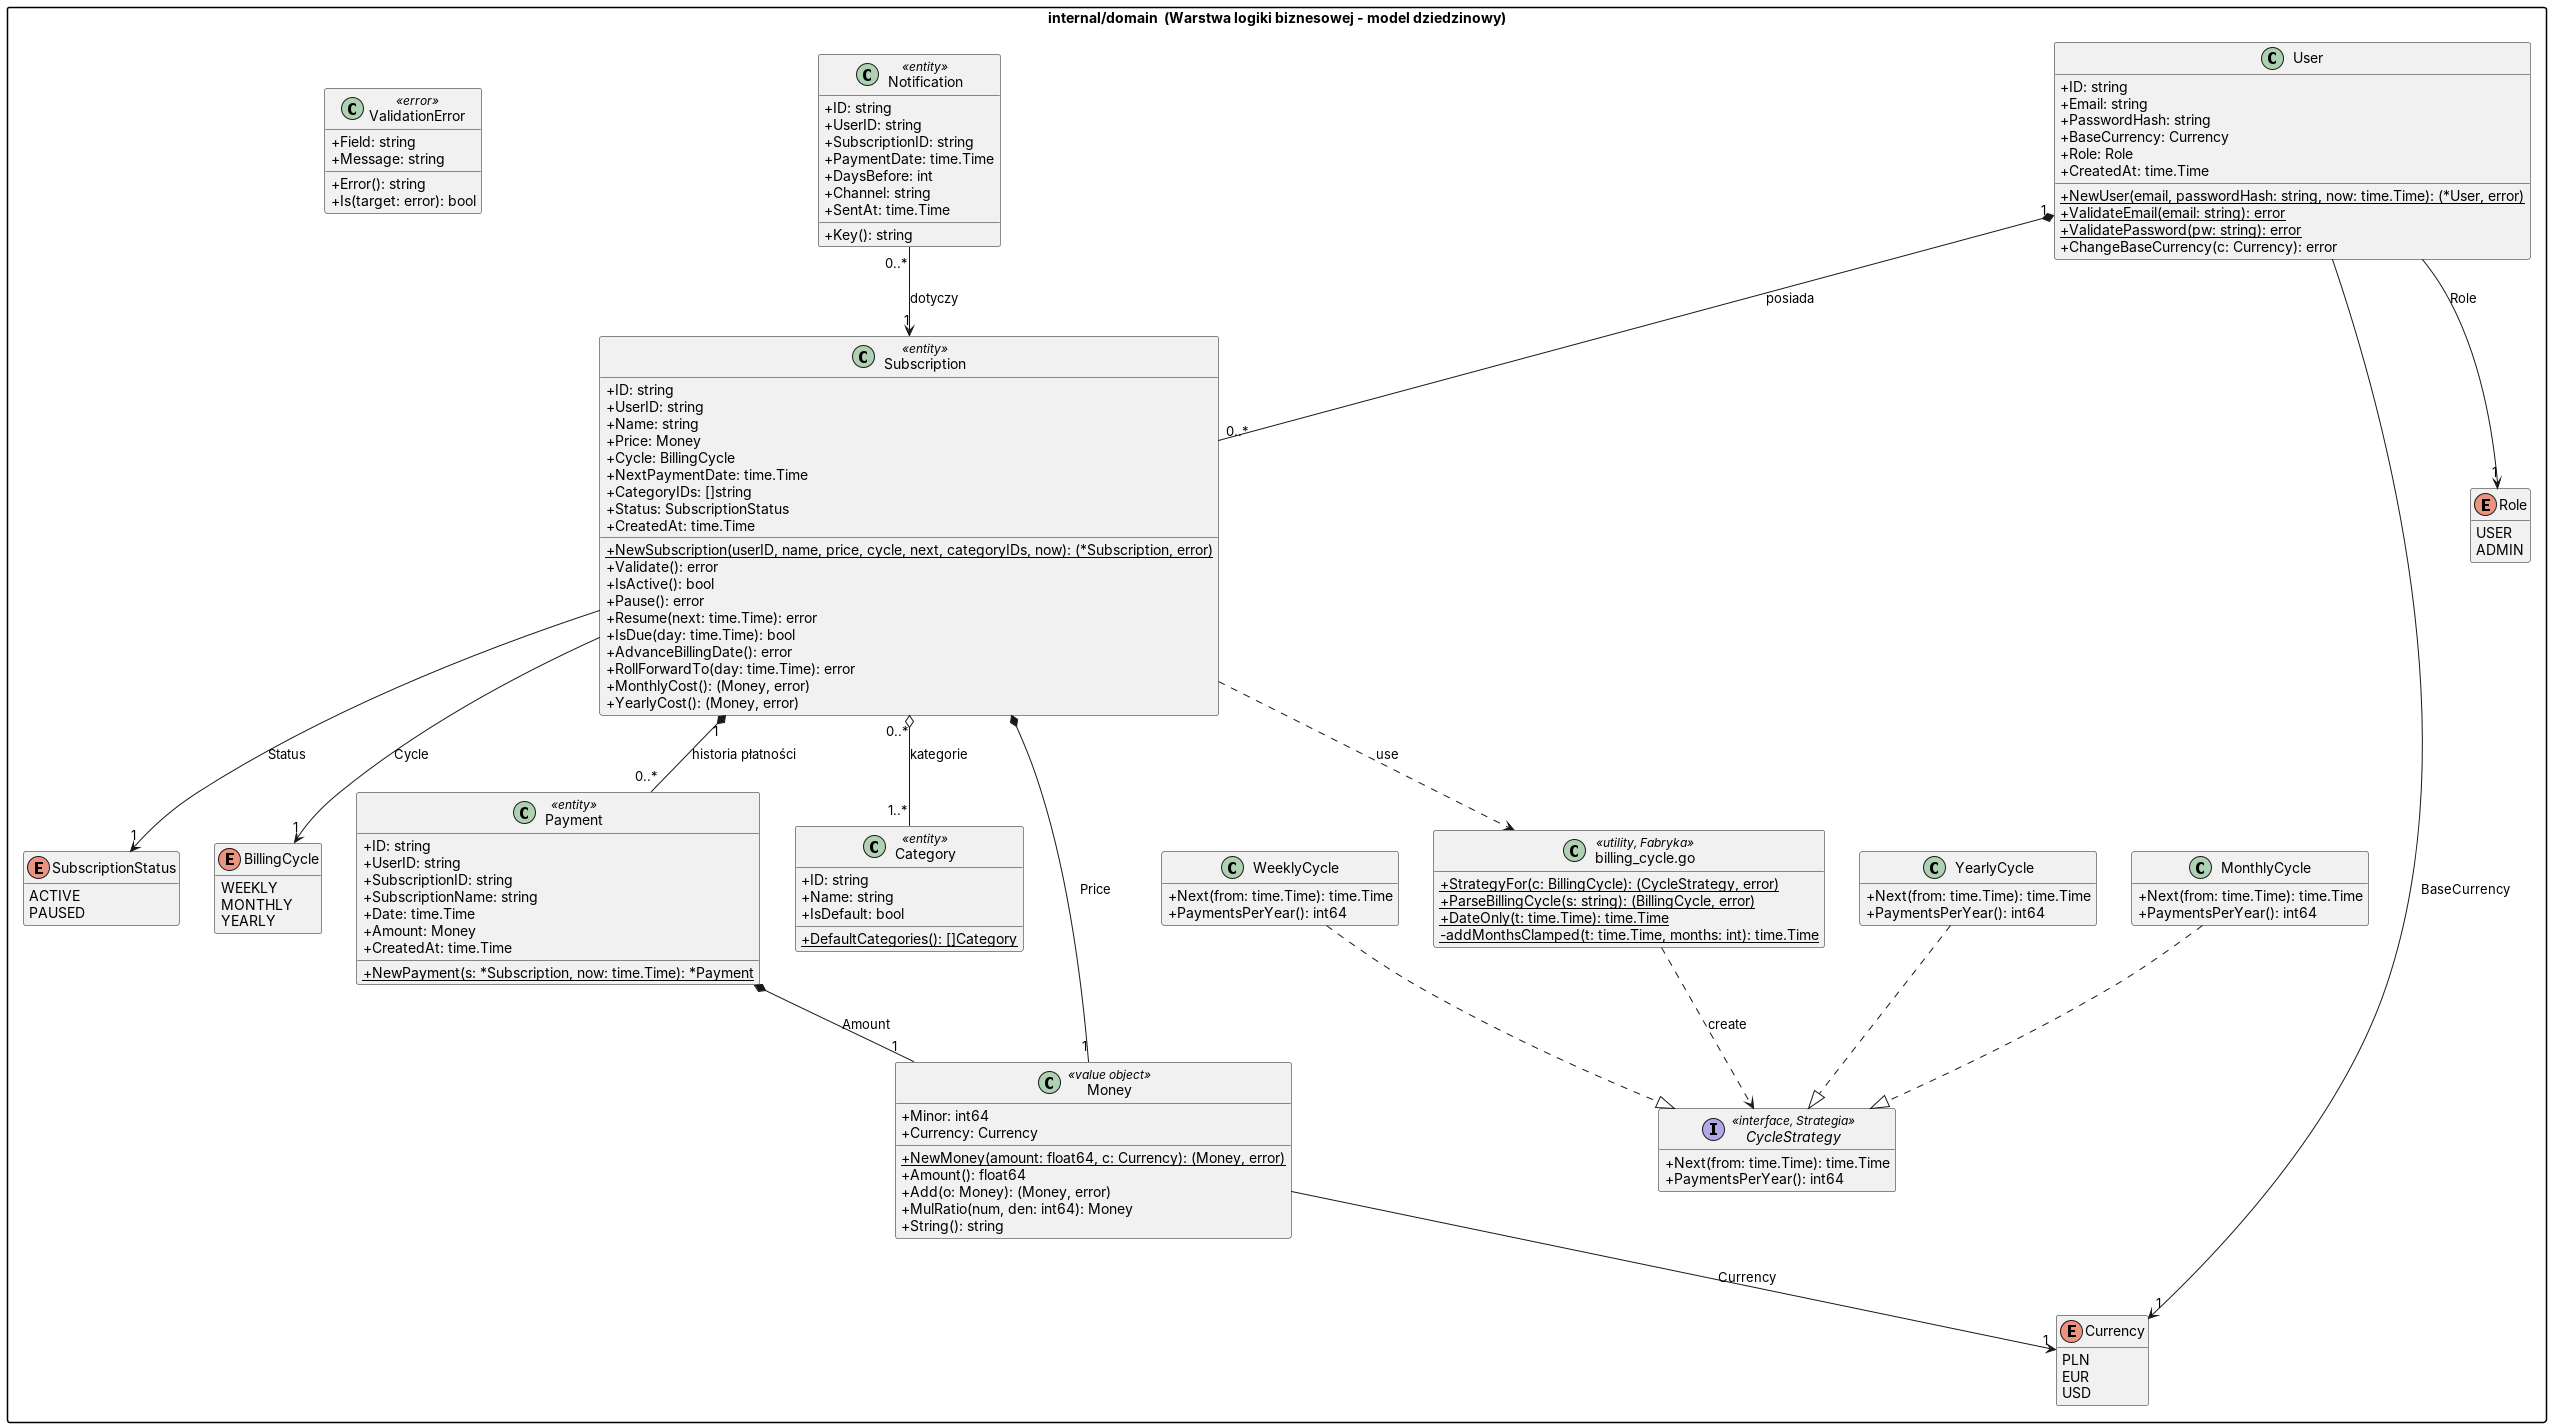
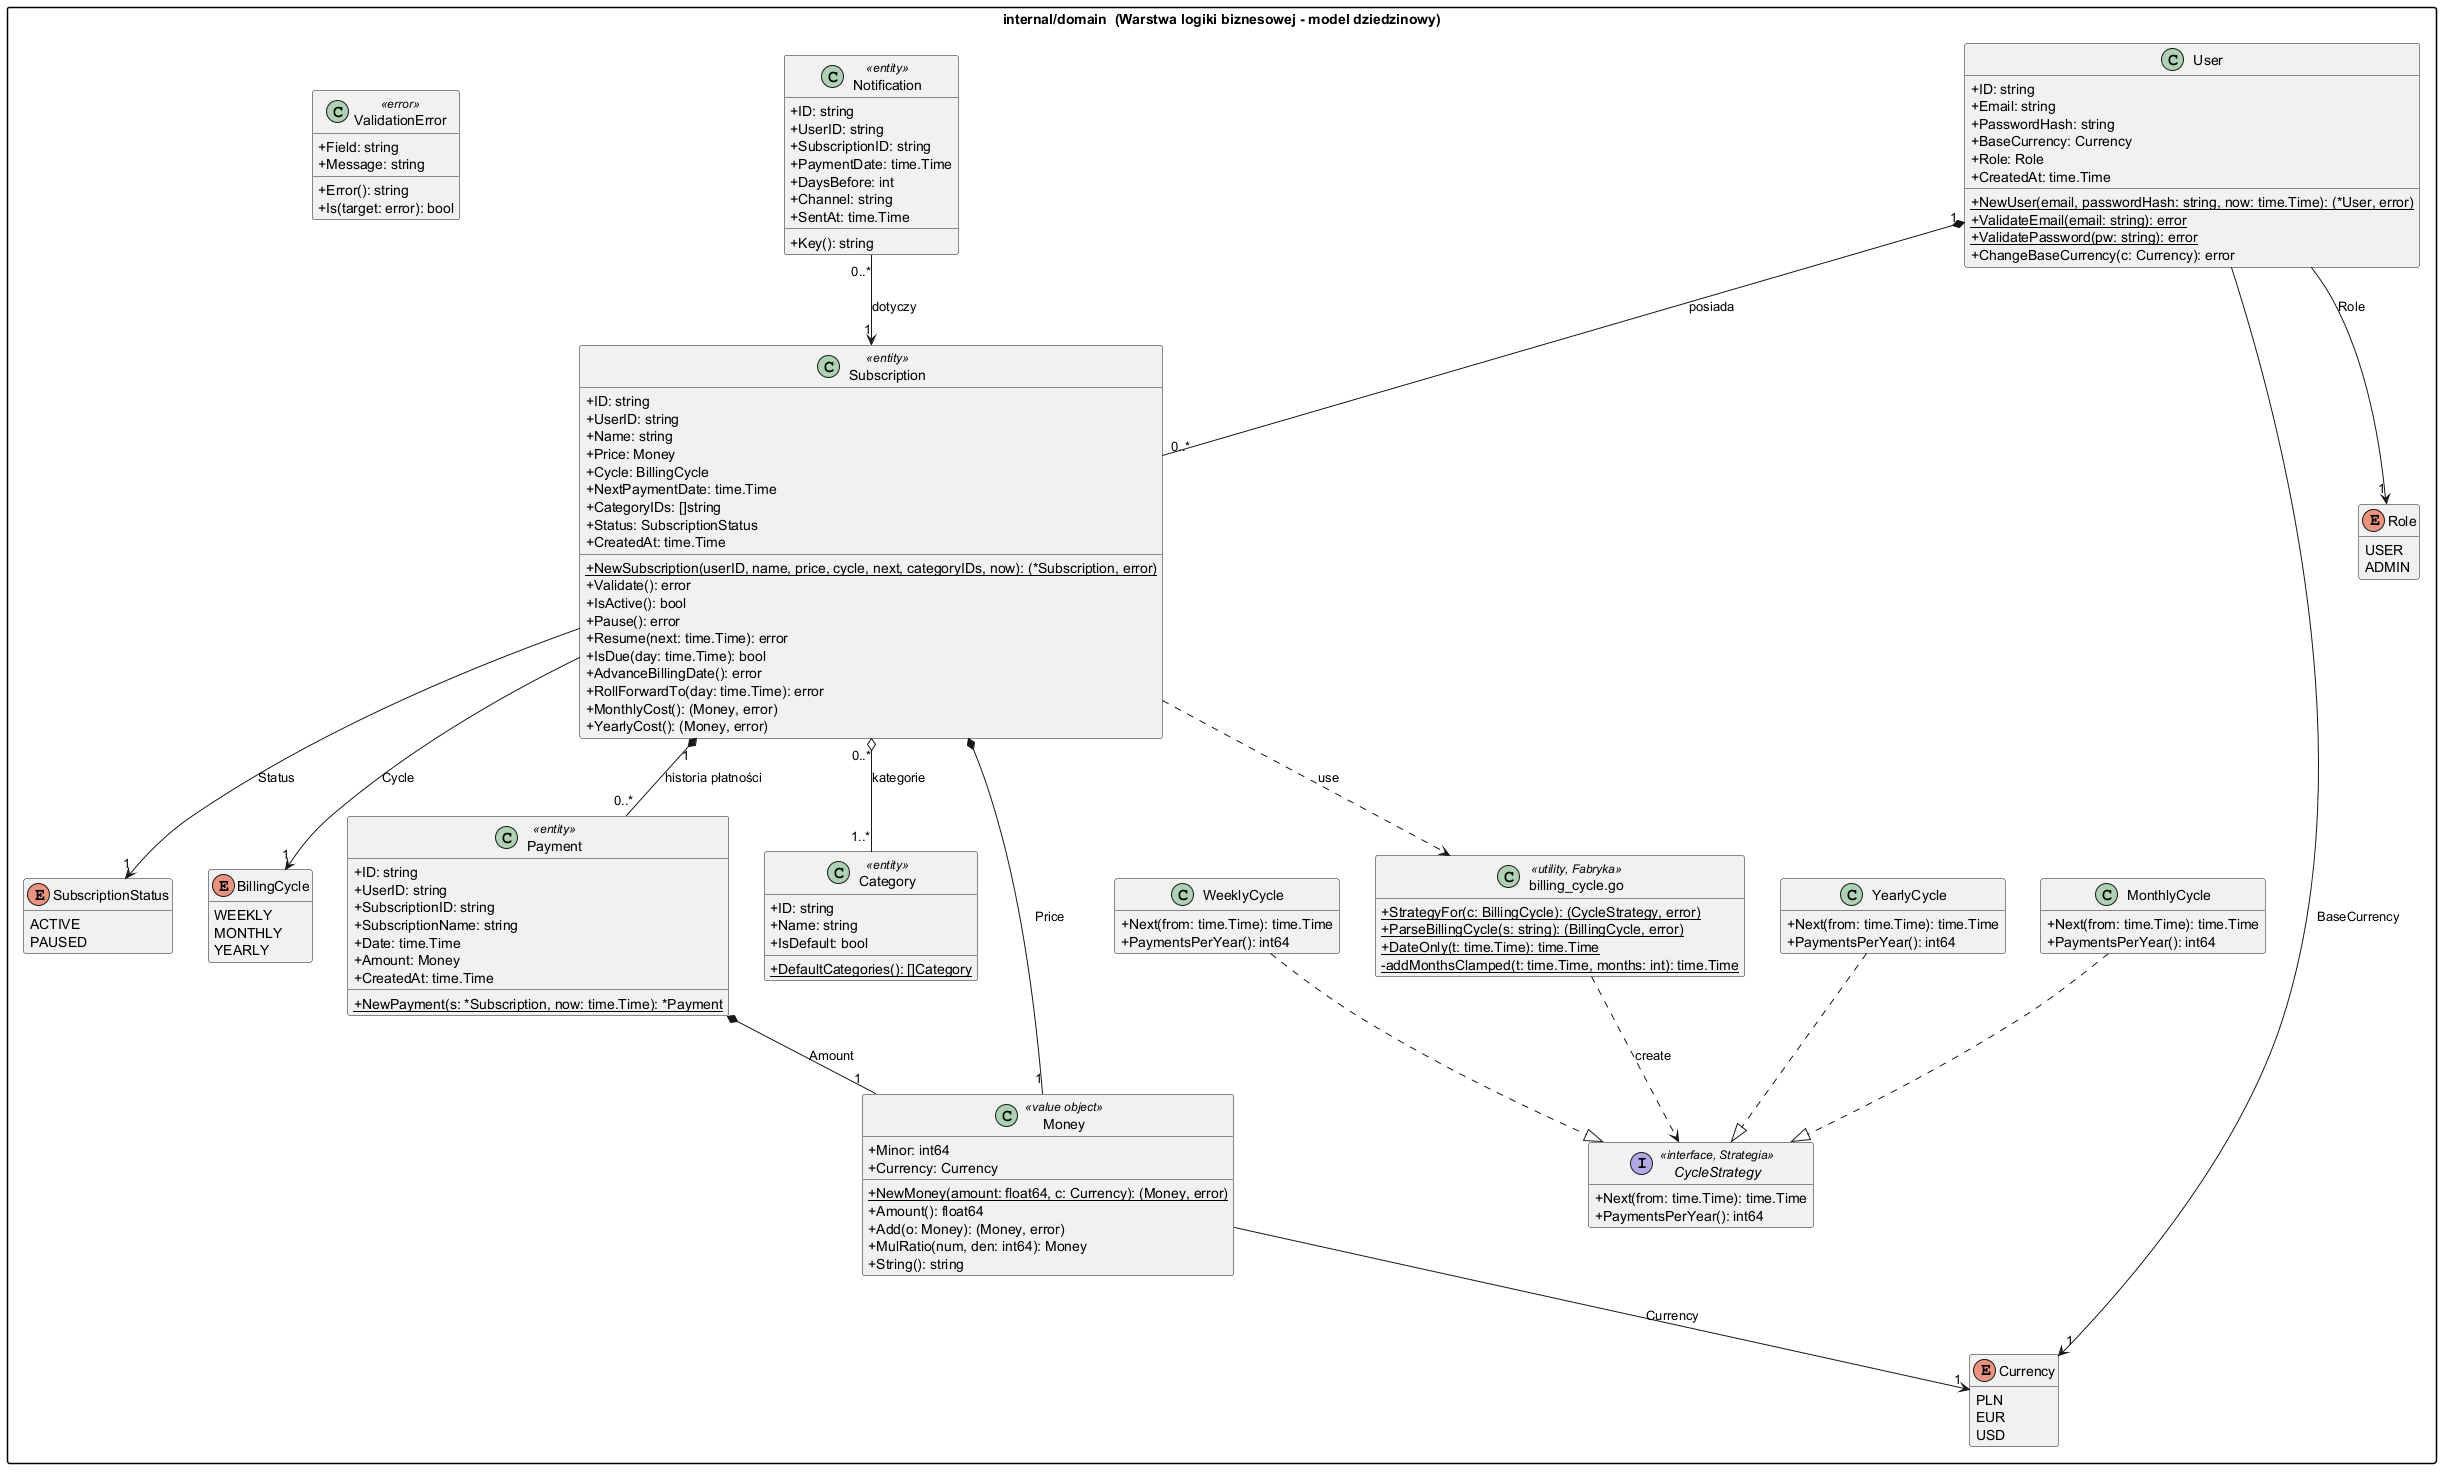
Diagramy: architektura, warstwa logiki i danych
- Dodano `01_architektura.dot`, `03_warstwa_logiki.puml`, `04_warstwa_danych.puml`
- Wprowadzono małe poprawki w komentarzach, readme, LF -> CRLF
- Usunięto endpoint testowy `/api/ping`

Closes #11

diff --git a/frontend/src/api/httpClient.ts b/frontend/src/api/httpClient.ts
@@ -1,4 +1,4 @@
-// HttpClient – jedyne miejsce, w którym frontend komunikuje się z backendem
+// HttpClient – jedyne miejsce, w którym frontend komunikuje się z backendem
 // (fetch + nagłówek Authorization + jednolita obsługa błędów).
 
 export class ApiError extends Error {

diff --git a/frontend/src/api/services.ts b/frontend/src/api/services.ts
@@ -1,4 +1,4 @@
-// Klienci zasobów REST API – odpowiadają kontrolerom (handlerom) backendu.
+// Klienci zasobów REST API – odpowiadają kontrolerom (handlerom) backendu.
 import type { HttpClient } from './httpClient'
 import type { Currency, LoginResponse, User } from '../types'
 

diff --git a/frontend/src/types.ts b/frontend/src/types.ts
@@ -1,4 +1,4 @@
-// Typy DTO – odpowiadają strukturom z backend/internal/api/dto.go.
+// Typy DTO – odpowiadają strukturom z backend/internal/api/dto.go.
 
 export type Currency = 'PLN' | 'EUR' | 'USD'
 export type BillingCycle = 'WEEKLY' | 'MONTHLY' | 'YEARLY'

diff --git a/frontend/vite.config.ts b/frontend/vite.config.ts
@@ -1,4 +1,4 @@
-import { defineConfig } from 'vite'
+import { defineConfig } from 'vite'
 import react from '@vitejs/plugin-react'
 
 // Serwer deweloperski Vite (port 5173) przekazuje żądania /api do backendu Go.

diff --git a/backend/internal/currency/rates.go b/backend/internal/currency/rates.go
@@ -1,6 +1,4 @@
-// Package currency – dostęp do kursów walut: symulator zewnętrznego API
-// oraz pośrednik buforujący (cache).
-package currency
+package currency
 
 import (
 	"context"
@@ -13,14 +11,14 @@ import (
 	"github.com/ahevko/polsl-aei-io-katowice/backend/internal/domain"
 )
 
-// RateTable – tabela kursów: ile PLN kosztuje 1 jednostka danej waluty.
+// Tabela kursów: ile PLN kosztuje 1 jednostka danej waluty.
 type RateTable struct {
 	Rates     map[domain.Currency]float64 `json:"rates"`
 	FetchedAt time.Time                   `json:"fetchedAt"`
 	Source    string                      `json:"source"`
 }
 
-// PLNPer zwraca kurs waluty względem PLN.
+// Zwraca kurs waluty względem PLN.
 func (t RateTable) PLNPer(c domain.Currency) (float64, error) {
 	r, ok := t.Rates[c]
 	if !ok || r <= 0 {
@@ -29,13 +27,12 @@ func (t RateTable) PLNPer(c domain.Currency) (float64, error) {
 	return r, nil
 }
 
-// RateProvider – kontrakt dostawcy kursów walut.
+// Kontrakt dostawcy kursów walut.
 type RateProvider interface {
 	CurrentRates(ctx context.Context) (RateTable, error)
 }
 
-// ExchangeAPISimulator – SYMULATOR zewnętrznego API kursów walut
-// (zgodnie z WSS: „ustalone kursy referencyjne dla celów symulacyjnych”).
+// SYMULATOR zewnętrznego API kursów walut.
 // Symuluje opóźnienie sieci i zlicza wywołania, aby było widać działanie cache.
 type ExchangeAPISimulator struct {
 	reference map[domain.Currency]float64
@@ -43,7 +40,7 @@ type ExchangeAPISimulator struct {
 	calls     atomic.Int64
 }
 
-// NewExchangeAPISimulator tworzy symulator z kursami referencyjnymi.
+// Tworzy symulator z kursami referencyjnymi.
 func NewExchangeAPISimulator(latency time.Duration) *ExchangeAPISimulator {
 	return &ExchangeAPISimulator{
 		reference: map[domain.Currency]float64{domain.PLN: 1.0, domain.EUR: 4.25, domain.USD: 3.70},
@@ -66,12 +63,12 @@ func (s *ExchangeAPISimulator) CurrentRates(ctx context.Context) (RateTable, err
 	return RateTable{Rates: rates, FetchedAt: time.Now(), Source: "symulator-api"}, nil
 }
 
-// Calls – liczba wywołań „zewnętrznego” API (do demonstracji i testów).
+// Liczba wywołań "zewnętrznego" API (do demonstracji i testów).
 func (s *ExchangeAPISimulator) Calls() int64 { return s.calls.Load() }
 
-// CachedRateProvider – wzorzec PEŁNOMOCNIK (Proxy) / DEKORATOR:
+// Wzorzec PEŁNOMOCNIK (Proxy) / DEKORATOR:
 // ten sam interfejs co RateProvider, ale wynik jest buforowany przez ttl,
-// co ogranicza liczbę zapytań do zewnętrznego API (WSS: buforowanie).
+// co ogranicza liczbę zapytań do zewnętrznego API.
 type CachedRateProvider struct {
 	inner   RateProvider
 	ttl     time.Duration
@@ -81,7 +78,7 @@ type CachedRateProvider struct {
 	expires time.Time
 }
 
-// NewCachedRateProvider opakowuje dowolnego dostawcę kursów.
+// Opakowuje dowolnego dostawcę kursów.
 func NewCachedRateProvider(inner RateProvider, ttl time.Duration) *CachedRateProvider {
 	return &CachedRateProvider{inner: inner, ttl: ttl, now: time.Now}
 }
@@ -104,7 +101,7 @@ func (p *CachedRateProvider) CurrentRates(ctx context.Context) (RateTable, error
 	return t, nil
 }
 
-// Invalidate czyści bufor (np. po aktualizacji kursów przez administratora).
+// Czyści bufor (np. po aktualizacji kursów przez administratora).
 func (p *CachedRateProvider) Invalidate() {
 	p.mu.Lock()
 	p.cached = nil

diff --git a/backend/internal/service/analytics_service.go b/backend/internal/service/analytics_service.go
@@ -1,4 +1,4 @@
-package service
+package service
 
 import (
 	"context"
@@ -8,14 +8,14 @@ import (
 	"github.com/ahevko/polsl-aei-io-katowice/backend/internal/repository"
 )
 
-// CategoryCost – koszt miesięczny przypadający na kategorię.
+// Koszt miesięczny przypadający na kategorię.
 type CategoryCost struct {
 	CategoryID   string
 	CategoryName string
 	Monthly      domain.Money
 }
 
-// CostSummary – wynik UC „Przeglądaj podsumowanie kosztów”.
+// Podsumowanie kosztów subskrypcji użytkownika.
 type CostSummary struct {
 	BaseCurrency        domain.Currency
 	MonthlyTotal        domain.Money
@@ -25,7 +25,8 @@ type CostSummary struct {
 	ByCategory          []CategoryCost
 }
 
-// AnalyticsService – UC z diagramu „Analiza wydatków” (WF-03).
+// Serwis warstwy logiki dla analizy kosztów subskrypcji użytkownika. Współpracuje z repozytoriami
+// subskrypcji, użytkowników i kategorii oraz konwerterem walut.
 type AnalyticsService struct {
 	subs       repository.SubscriptionRepository
 	users      repository.UserRepository
@@ -37,9 +38,7 @@ func NewAnalyticsService(subs repository.SubscriptionRepository, users repositor
 	return &AnalyticsService{subs: subs, users: users, categories: categories, converter: converter}
 }
 
-// Summary – UC „Wylicz koszty miesięczne i roczne” + „Grupuj wydatki
-// według kategorii”. Subskrypcja w kilku kategoriach dzieli koszt po równo,
-// żeby suma po kategoriach równała się sumie całkowitej.
+// Summary oblicza podsumowanie kosztów subskrypcji użytkownika w jego bazowej walucie.
 func (s *AnalyticsService) Summary(ctx context.Context, userID string) (*CostSummary, error) {
 	u, err := s.users.GetByID(ctx, userID)
 	if err != nil {

diff --git a/backend/internal/service/currency_converter.go b/backend/internal/service/currency_converter.go
@@ -1,4 +1,4 @@
-package service
+package service
 
 import (
 	"context"
@@ -8,8 +8,7 @@ import (
 	"github.com/ahevko/polsl-aei-io-katowice/backend/internal/domain"
 )
 
-// CurrencyConverter – UC „Przelicz kwoty na walutę użytkownika”.
-// Korzysta z dowolnego RateProvider (w praktyce: CachedRateProvider).
+// Konwerter walut. Współpracuje z RateProvider, który pobiera aktualne kursy walut.
 type CurrencyConverter struct {
 	rates currency.RateProvider
 }
@@ -18,7 +17,7 @@ func NewCurrencyConverter(rates currency.RateProvider) *CurrencyConverter {
 	return &CurrencyConverter{rates: rates}
 }
 
-// Convert przelicza kwotę na walutę docelową (przez PLN jako walutę pośrednią).
+// Przelicza kwotę na walutę docelową (przez PLN jako walutę pośrednią).
 func (c *CurrencyConverter) Convert(ctx context.Context, m domain.Money, to domain.Currency) (domain.Money, error) {
 	if m.Currency == to {
 		return m, nil

diff --git a/backend/internal/api/router.go b/backend/internal/api/router.go
@@ -1,4 +1,4 @@
-package api
+package api
 
 import (
 	"log"
@@ -37,11 +37,6 @@ func NewRouter(d Dependencies, opt Options) http.Handler {
 	mux := http.NewServeMux()
 	mux.HandleFunc("GET /api/health", func(w http.ResponseWriter, _ *http.Request) {
 		writeJSON(w, http.StatusOK, map[string]string{"status": "ok"})
-	})
-
-	// Zostawione z pierwszej wersji dla testów. TODO: usunąć w przyszłości.
-	mux.HandleFunc("GET /api/ping", func(w http.ResponseWriter, _ *http.Request) {
-		writeJSON(w, http.StatusOK, map[string]string{"message": "Pong"})
 	})
 
 	// Konto

diff --git a/backend/internal/repository/repository.go b/backend/internal/repository/repository.go
@@ -1,4 +1,4 @@
-// Package repository definiuje kontrakty warstwy dostępu do danych (wzorzec REPOZYTORIUM).
+// Package repository definiuje kontrakty warstwy dostępu do danych (wzorzec REPOZYTORIUM).
 // Warstwa logiki biznesowej zależy wyłącznie od tych interfejsów, a nie od konkretnej
 // technologii składowania danych. W prototypie używamy implementacji in-memory (pakiet memory),
 // docelowo można dodać implementację dla relacyjnej bazy danych bez zmian w serwisach.

diff --git a/backend/internal/domain/user.go b/backend/internal/domain/user.go
@@ -1,4 +1,4 @@
-package domain
+package domain
 
 import (
 	"net/mail"
@@ -6,7 +6,7 @@ import (
 	"time"
 )
 
-// Rola użytkownika w systemie (aktorzy z diagramu UC).
+// Rola użytkownika w systemie.
 type Role string
 
 const (
@@ -14,7 +14,7 @@ const (
 	RoleAdmin Role = "ADMIN"
 )
 
-// User – konto użytkownika.
+// Konto użytkownika.
 type User struct {
 	ID           string    `json:"id"`
 	Email        string    `json:"email"`

diff --git a/backend/internal/domain/billing_cycle.go b/backend/internal/domain/billing_cycle.go
@@ -1,4 +1,4 @@
-package domain
+package domain
 
 import (
 	"strings"
@@ -76,7 +76,7 @@ func addMonthsClamped(t time.Time, months int) time.Time {
 	return time.Date(firstOfTarget.Year(), firstOfTarget.Month(), d, 0, 0, 0, 0, t.Location())
 }
 
-// DateOnly obcina czas do północy UTC.
+// Obcina czas do północy UTC.
 func DateOnly(t time.Time) time.Time {
 	y, m, d := t.Date()
 	return time.Date(y, m, d, 0, 0, 0, 0, time.UTC)

diff --git a/backend/internal/api/analytics_handler.go b/backend/internal/api/analytics_handler.go
@@ -1,4 +1,4 @@
-package api
+package api
 
 import (
 	"net/http"
@@ -20,7 +20,7 @@ func (h *CategoryHandler) List(w http.ResponseWriter, r *http.Request) {
 	writeJSON(w, http.StatusOK, cs)
 }
 
-// AnalyticsHandler – kontroler UC analizy wydatków.
+// Udostępnia statystyki finansowe użytkownika.
 type AnalyticsHandler struct {
 	analytics *service.AnalyticsService
 }
